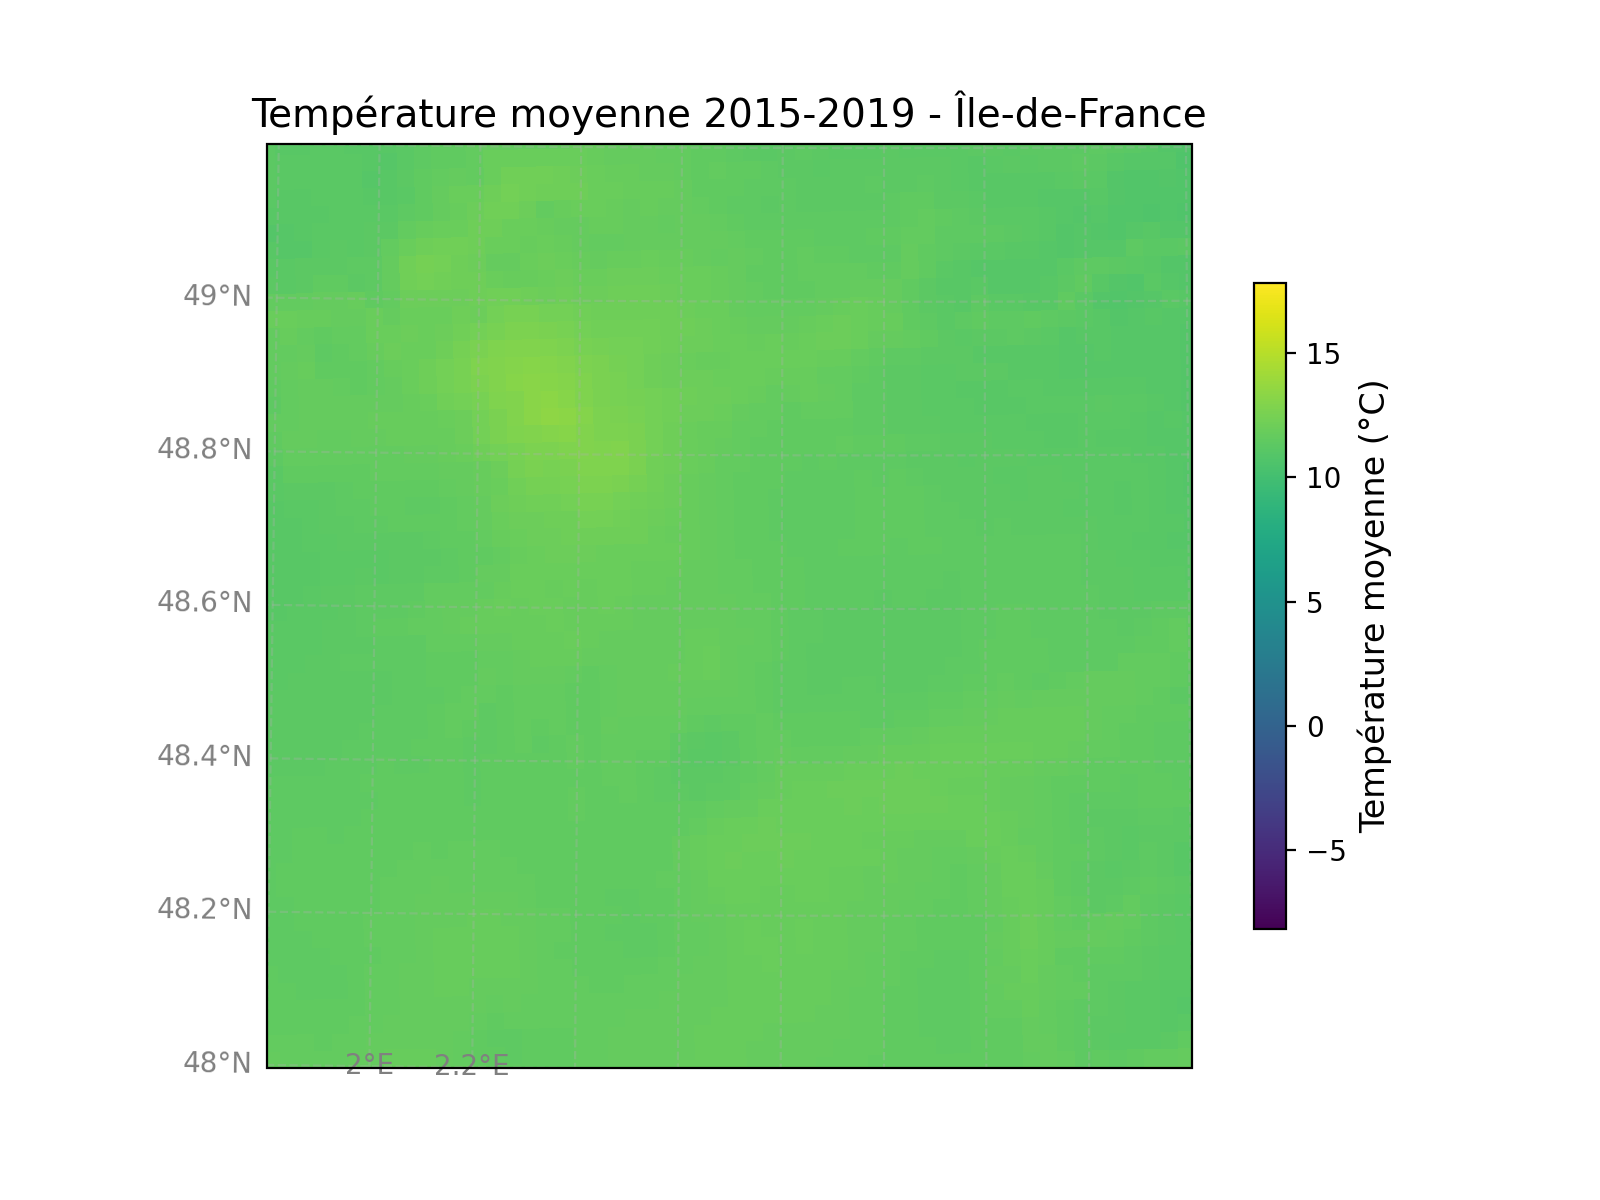
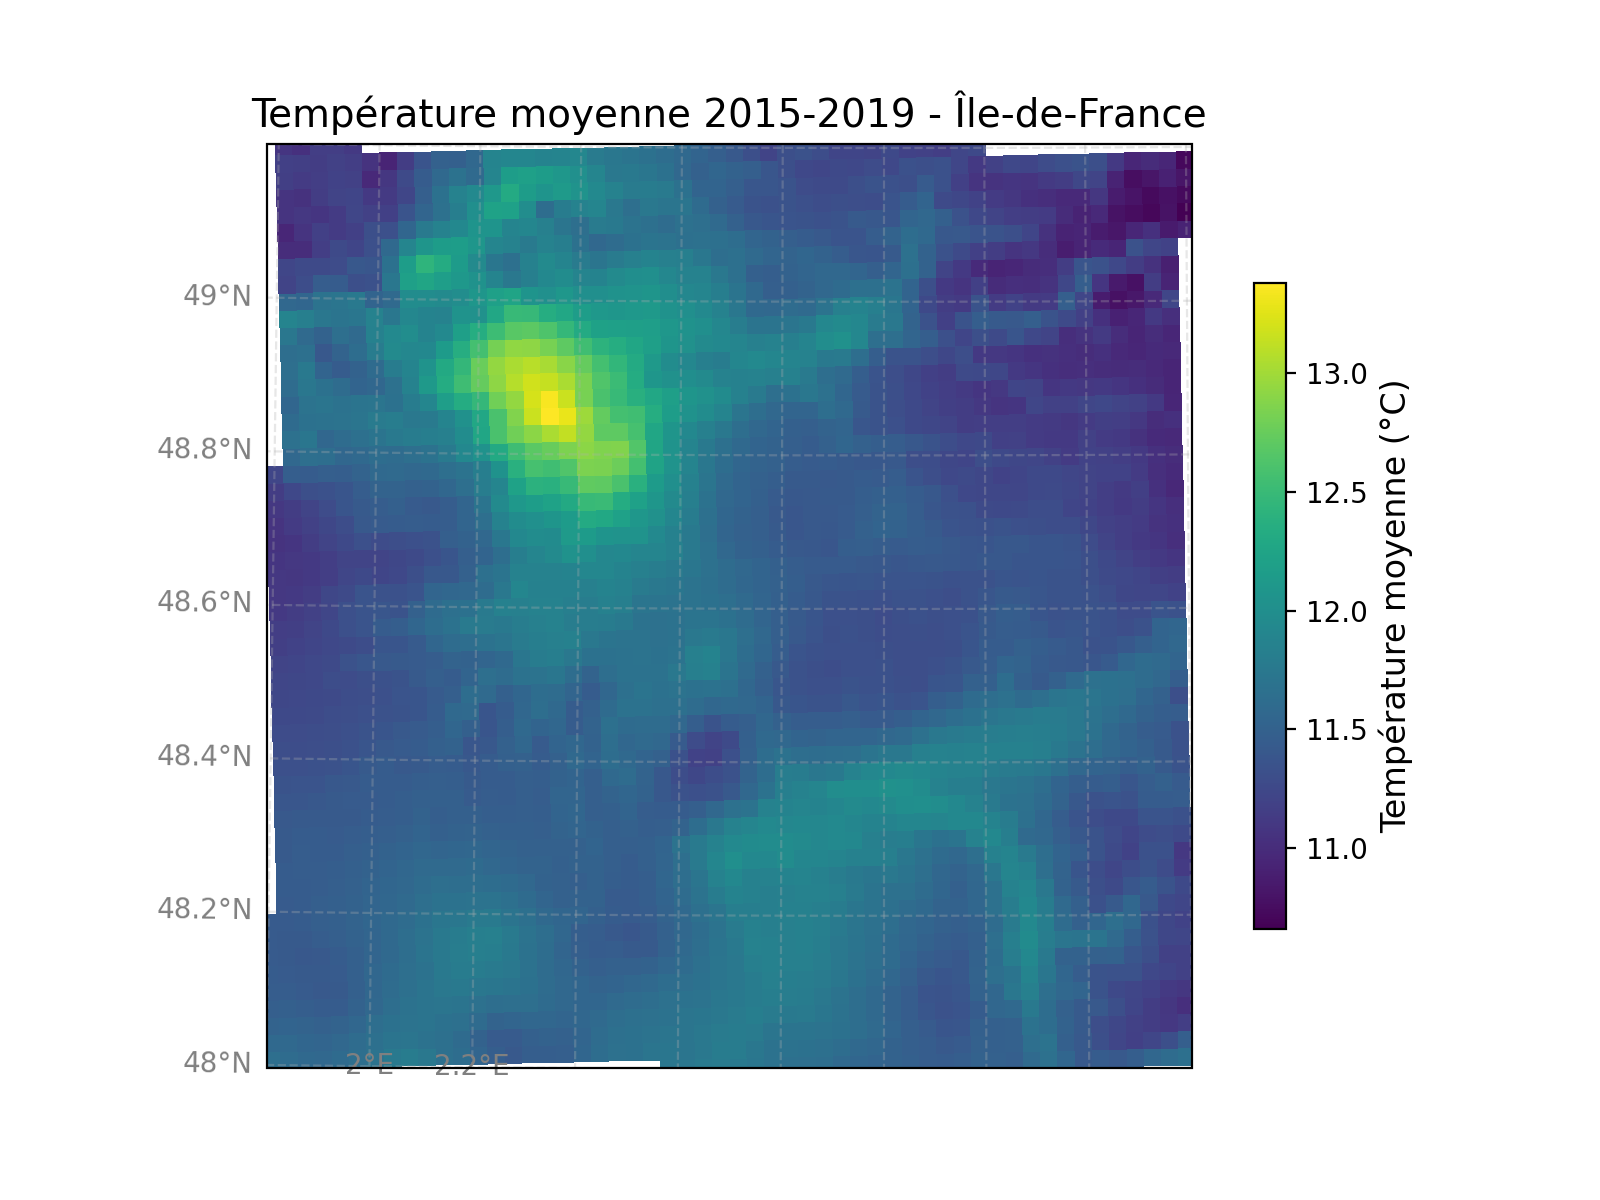
ajout fonction de selection des données de melun

diff --git a/get_tempé_campagne.py b/get_tempé_campagne.py
@@ -19,7 +19,8 @@ nom_fichier = f"{parametre[i_param]}_FR-Metro_CNRM-ESM2-1_ssp370_r1i1p1f2_CNRM-M
 
 T_data = xr.open_dataset(chemin_file + nom_fichier)
 
-def mask(data, lat_min, lat_max, lon_min, lon_max):
+
+def mask_rectangle(data, lat_min, lat_max, lon_min, lon_max):
     """
     Applique un masque géographique à un DataArray.
     data : xarray.DataArray
@@ -31,18 +32,81 @@ def mask(data, lat_min, lat_max, lon_min, lon_max):
     # where garde les coordonnées et remplace les valeurs hors masque par NaN
     return data.where(mask_bool)
 
+def get_melun_tempe(data):
+    """
+    Donne la tempé de Melun
+    data : xarray.DataArray
+    """
+    lat_Melun = 48.572551
+    lon_Melun = 2.672507
+    data_Melun = data.sel(lat=lat_Melun, lon=lon_Melun, method="nearest")
 
+    return data_Melun
+
+
+
+
+# Zone Île-de-France
 lat_min, lat_max = 48.0, 49.2
 lon_min, lon_max = 1.8, 3.6
 
-T_data_IDF = mask(T_data[parametre[i_param]], lat_min, lat_max, lon_min, lon_max)
+T_data_IDF = mask_rectangle(T_data[f"{parametre[i_param]}"], lat_min, lat_max, lon_min, lon_max)
+T_data_Melun = get_melun_tempe(T_data_IDF)
+
 
 # Moyenne temporelle sur la zone masquée
 moy_data = T_data_IDF.mean(dim='time', skipna=True).values - 273.15
+moy_T_melun = T_data_Melun.mean(dim='time', skipna=True).values - 273.15
 
 
 
 
-#lats_data = ds_data['lat'].values
-#lons_data = ds_data['lon'].values
 
+
+
+
+
+###################################################################
+#######################  AFFICHAGE  ###############################
+###################################################################
+lats_data = T_data_IDF['lat'].values
+lons_data = T_data_IDF['lon'].values
+
+lat_lim_idf = [lat_min, lat_max]
+lon_lim_idf = [lon_min, lon_max]
+
+# Création figure
+fig, ax = plt.subplots(1, 1, figsize=(8, 6), subplot_kw={'projection': ccrs.LambertConformal(central_longitude=3, central_latitude=48.6)})
+
+ax.set_extent([lon_lim_idf[0], lon_lim_idf[1], lat_lim_idf[0], lat_lim_idf[1]], crs=ccrs.PlateCarree())
+ax.coastlines('10m', color='black', linewidth=0.8)
+
+# Grille
+gl = ax.gridlines(crs=ccrs.PlateCarree(), draw_labels=True, linestyle='--', alpha=0.3)
+gl.top_labels = False
+gl.right_labels = False
+gl.xformatter = LONGITUDE_FORMATTER
+gl.yformatter = LATITUDE_FORMATTER
+gl.xlocator = mticker.FixedLocator(np.arange(lon_lim_idf[0], lon_lim_idf[1]+0.1, 0.2))
+gl.ylocator = mticker.FixedLocator(np.arange(lat_lim_idf[0], lat_lim_idf[1]+0.1, 0.2))
+gl.xlabel_style = {"size": 10, "color": "gray"}
+gl.ylabel_style = {"size": 10, "color": "gray"}
+
+# Tracé lisse
+mm = ax.pcolormesh(lons_data, lats_data, moy_data-moy_T_melun,
+                   vmin=np.nanmin(moy_data), vmax=np.nanmax(moy_data),
+                   cmap=mpl.cm.viridis, shading='auto',
+                   transform=ccrs.PlateCarree())
+
+# Colorbar
+cbar = plt.colorbar(mm, orientation='vertical', shrink=0.7)
+cbar.set_label('Température moyenne (°C)', fontsize=12)
+
+plt.title("Température moyenne 2015-2019 - Île-de-France", fontsize=14)
+
+# Sauvegarde
+chemin_fig = 'Cartes/'
+os.makedirs(chemin_fig, exist_ok=True)
+figname = chemin_fig + f'carte_tasAdjust_IDF_2015_2019.png'
+plt.savefig(figname, dpi=200)
+plt.close()
